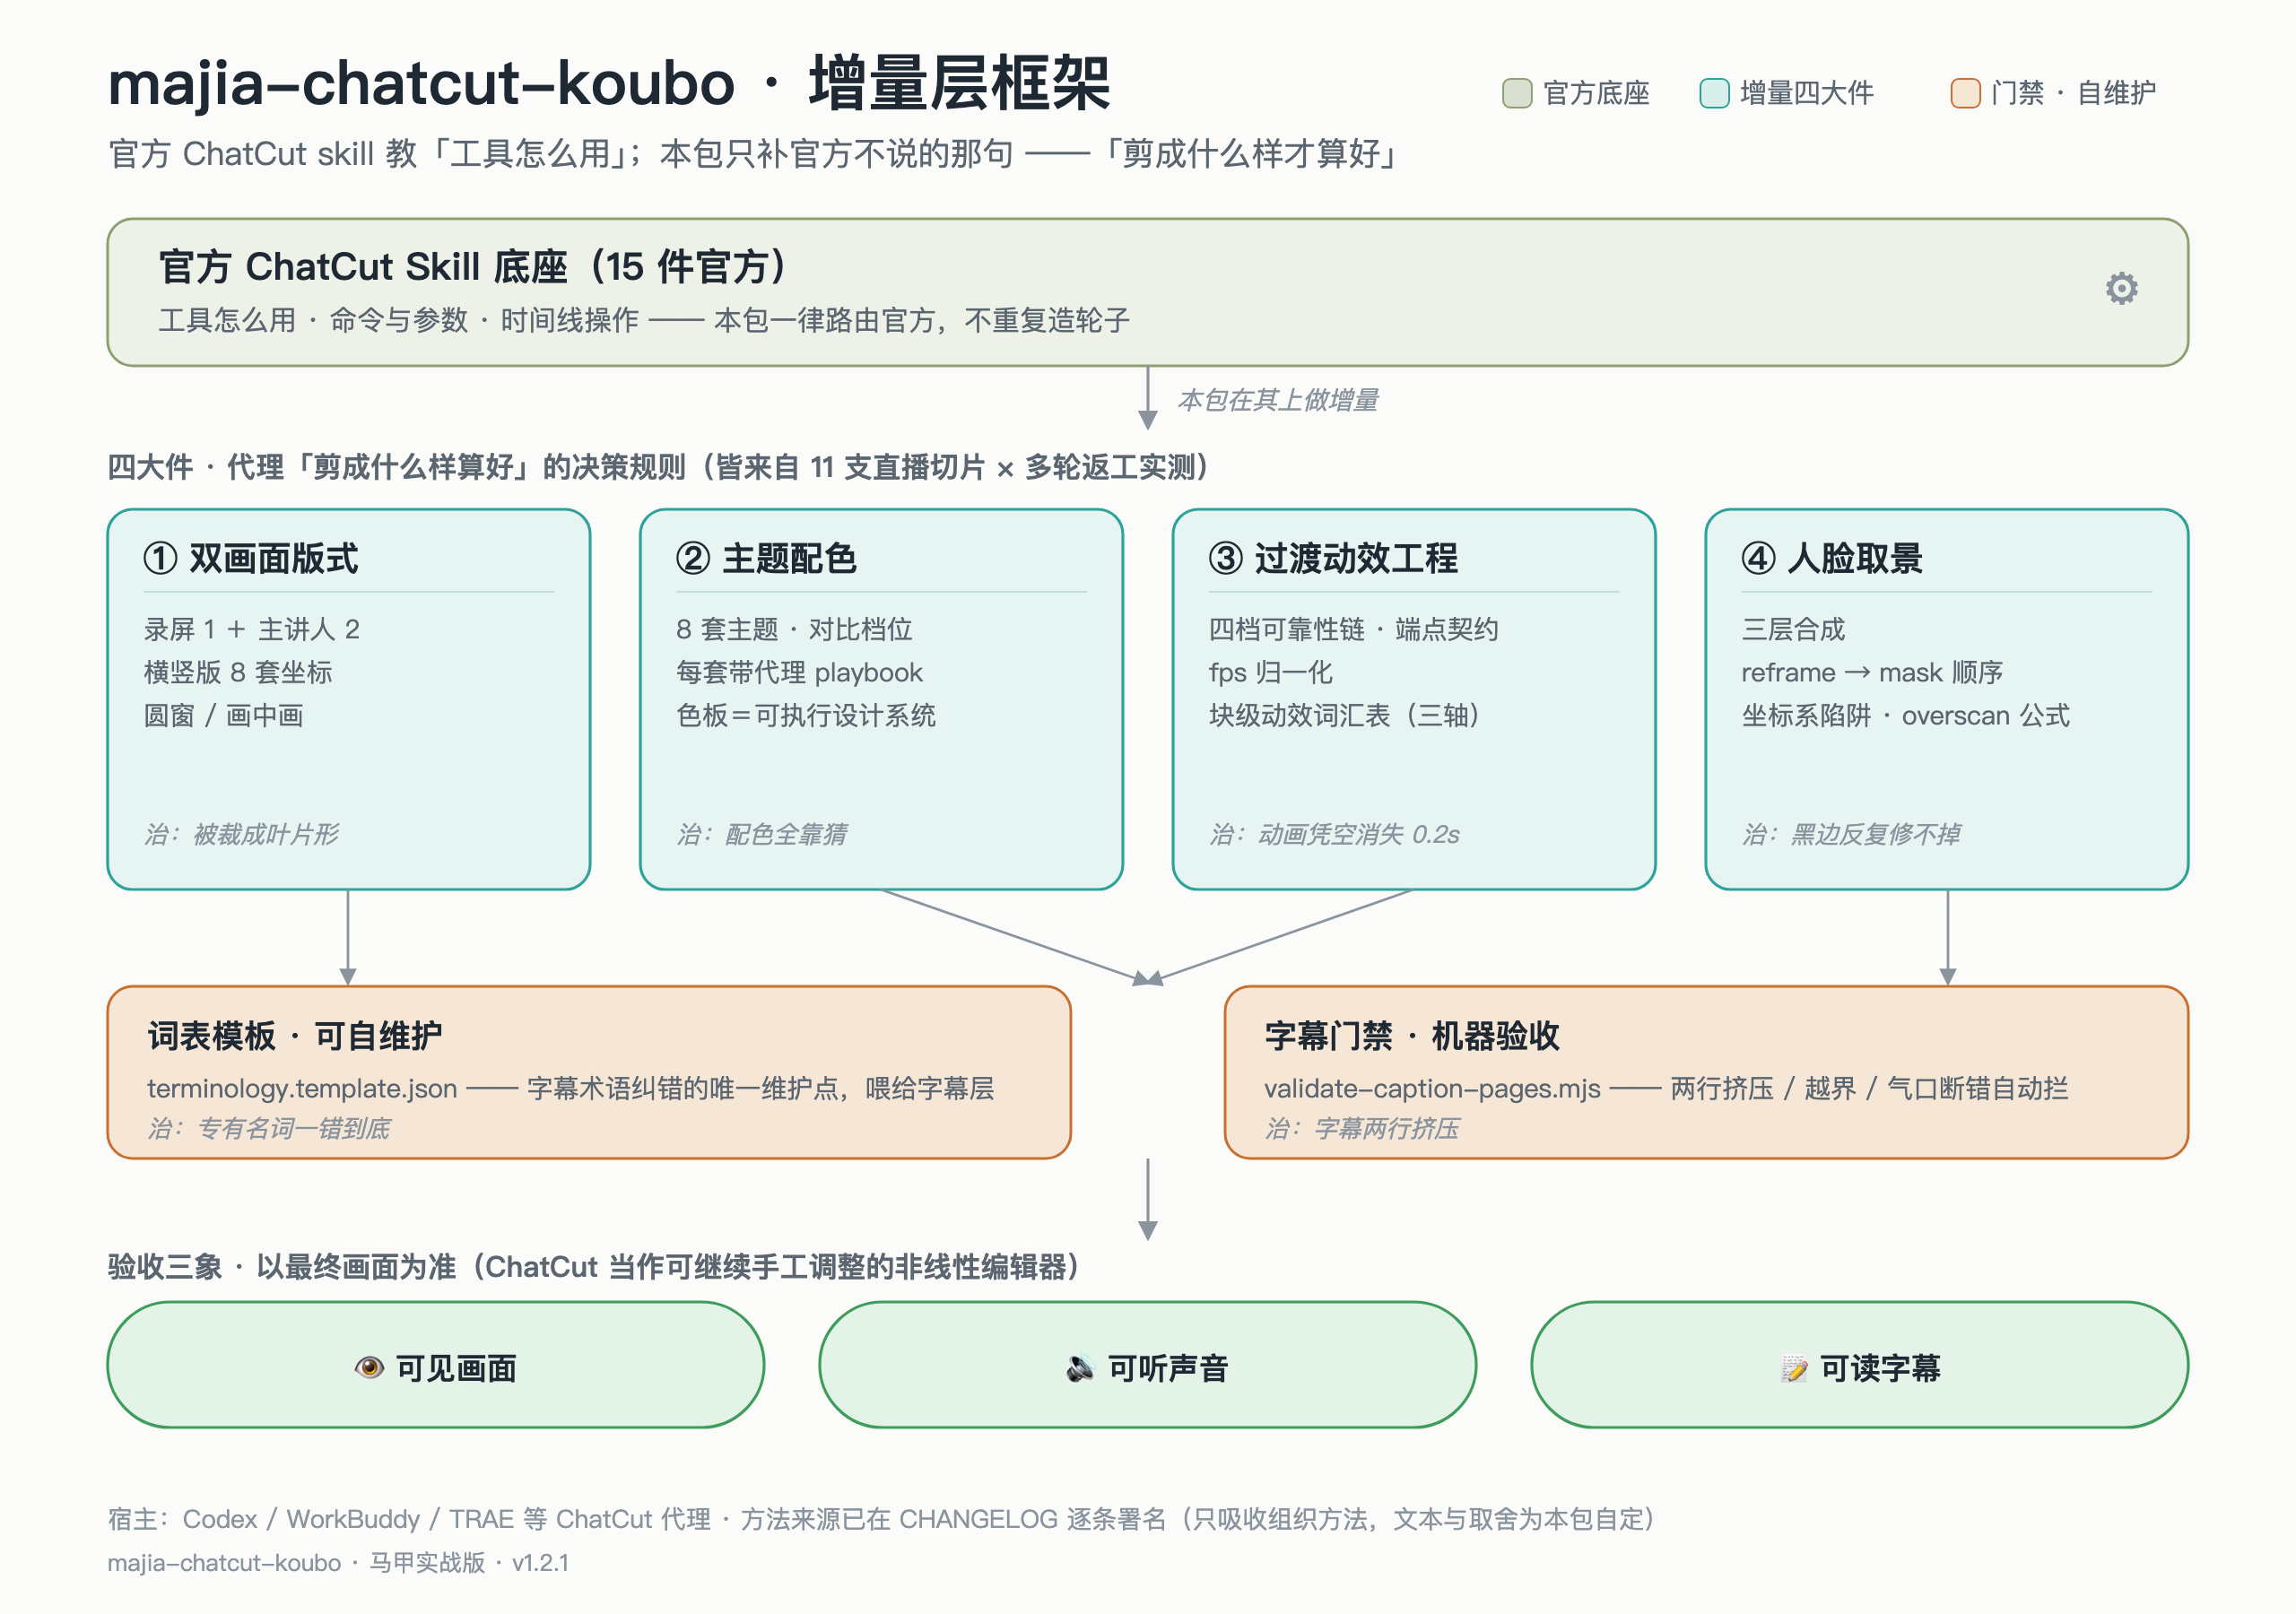
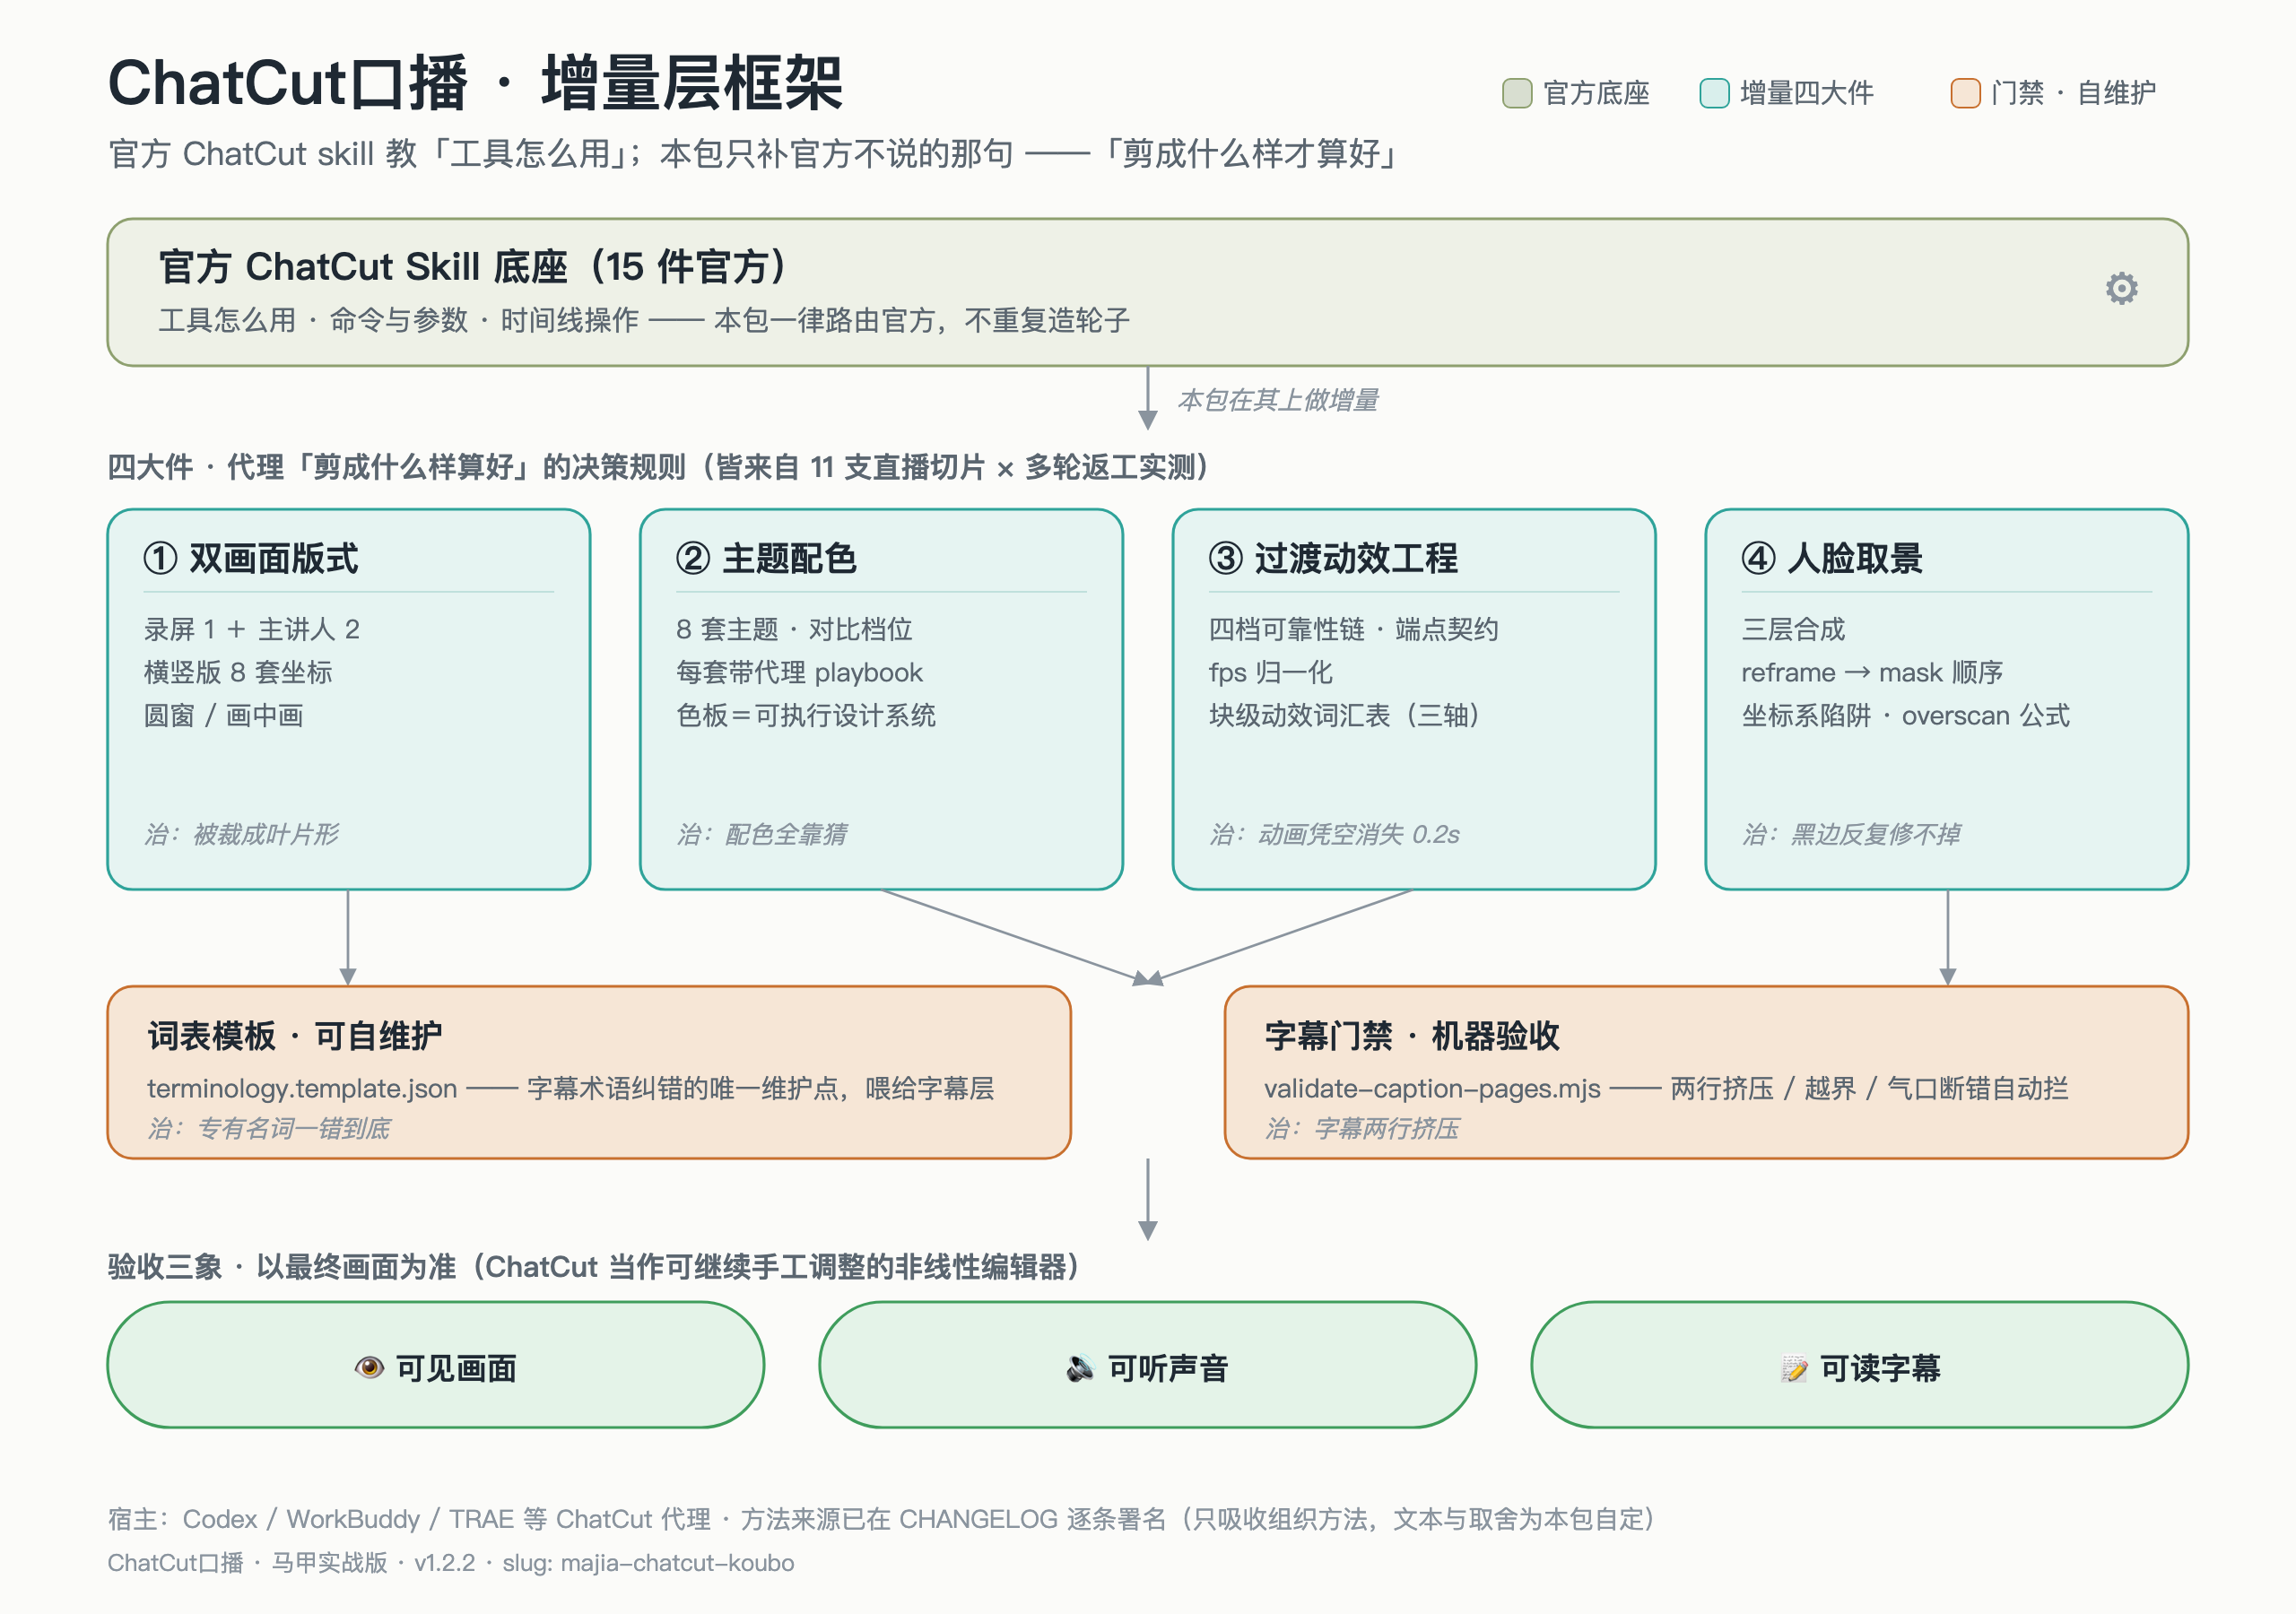
brand: 中文展示名定为「ChatCut口播 · 马甲实战版」(v1.2.2)
- SKILL H1 / README H1 / README.en 注记 / 架构图标题+footer / CHANGELOG 同步中文名
- slug majia-chatcut-koubo、frontmatter name、安装命令全部不变(仅展示名)
- bump v1.2.2,版本记录≤3,架构图 alt+footer 版本同步,PII/漂移门通过

Changed region(s): [[0.0312, 0.0311, 0.5, 0.0933], [0.0625, 0.9644, 0.3438, 0.9956]]

diff --git a/README.md b/README.md
@@ -1,13 +1,15 @@
-# majia-chatcut-koubo
+# ChatCut口播 · 马甲实战版
 
-![Skill Version](https://img.shields.io/badge/skill-v1.2.1-blue)
+![Skill Version](https://img.shields.io/badge/skill-v1.2.2-blue)
 [![skills.sh](https://skills.sh/b/maojiebc/majia-chatcut-koubo)](https://skills.sh/maojiebc/majia-chatcut-koubo)
+
+> 安装标识（slug）仍为 `majia-chatcut-koubo`，安装命令与下方一致；「ChatCut口播 · 马甲实战版」是它的中文展示名。
 
 **ChatCut 口播剪辑通用技巧包 · 马甲实战版** —— 官方 ChatCut skill 之上的增量层:双画面版式、主题配色、过渡动效、人脸取景四大件,外加可自维护的词表模板与机器化字幕门禁。全部规则来自真实批量剪片(11 支直播切片 × 多轮返工)踩出来的实测结论,不是理论汇编。
 
-<img src="https://raw.githubusercontent.com/maojiebc/majia-chatcut-koubo/main/docs/architecture.png" alt="v1.2.1 增量层框架图:官方 ChatCut 底座 → 双画面版式 / 主题配色 / 过渡动效工程 / 人脸取景 四大件 → 词表模板 + 字幕门禁 → 可见画面 / 可听声音 / 可读字幕 验收三象" width="100%">
+<img src="https://raw.githubusercontent.com/maojiebc/majia-chatcut-koubo/main/docs/architecture.png" alt="v1.2.2 增量层框架图:官方 ChatCut 底座 → 双画面版式 / 主题配色 / 过渡动效工程 / 人脸取景 四大件 → 词表模板 + 字幕门禁 → 可见画面 / 可听声音 / 可读字幕 验收三象" width="100%">
 
-<img src="https://raw.githubusercontent.com/maojiebc/majia-chatcut-koubo/main/docs/theme-preview.png" alt="v1.2.1 · 8 套口播主题配色总览(每套含代理 playbook):深空蓝/墨绿金/暖灰橙/午夜紫/极简黑白/海盐青/大地棕/活力青柠" width="100%">
+<img src="https://raw.githubusercontent.com/maojiebc/majia-chatcut-koubo/main/docs/theme-preview.png" alt="v1.2.2 · 8 套口播主题配色总览(每套含代理 playbook):深空蓝/墨绿金/暖灰橙/午夜紫/极简黑白/海盐青/大地棕/活力青柠" width="100%">
 
 ## 这个包解决什么
 
@@ -66,11 +68,11 @@ docs/
 
 ## 📋 版本记录
 
+**V1.2.2(2026-07-23)** — 中文品牌名:展示名定为「ChatCut口播 · 马甲实战版」,同步 SKILL/README/架构图/GitHub About/ClawHub;安装标识 `majia-chatcut-koubo`、frontmatter 与安装命令一律不变。
+
 **V1.2.1(2026-07-23)** — 框架图 + 装修:新增 `docs/architecture.svg` 增量层全景框架图(官方底座 → 双画面/主题/动效/取景 四大件 → 词表模板 + 字幕门禁 → 可见画面/可听声音/可读字幕 验收三象),README 首图改为框架图、主题总览下移,版本记录收敛。纯文档增强,规则本体不变。
 
 **V1.2.0(2026-07-22)** — 块级动效词汇表:信息块动效收敛为三轴受限枚举(进场/出场/循环强调,弹入默认禁、闪烁禁、打字机仅文字块),8 份主题 playbook 各配「动效档」准许/禁用集,块×动效推荐表落地「一致性>花样」。
-
-**V1.1.0(2026-07-22)** — 主题 playbook 化:8 套主题各配一份代理 playbook(token 语义档位/版式搭配/信息块偏好/字幕底板硬规则/调用 crib),主题包从「色板+底图」升级为「代理可执行的设计系统」;新增 `graphics-blocks.md` 十类信息块选用表(证据信号驱动,CTA 默认不加为红线)。
 
 完整变更历史见 [CHANGELOG.md](CHANGELOG.md)。
 

diff --git a/README.en.md b/README.en.md
@@ -1,12 +1,14 @@
 # majia-chatcut-koubo
 
-![Skill Version](https://img.shields.io/badge/skill-v1.2.1-blue)
+![Skill Version](https://img.shields.io/badge/skill-v1.2.2-blue)
+
+> Chinese display name: **ChatCut口播 · 马甲实战版**. Install slug stays `majia-chatcut-koubo`.
 
 **A field-tested technique pack for agent-driven talking-head editing in ChatCut · Majia Field Edition** — an increment layer on top of the official ChatCut skills. The official skills teach agents *how to use the tools*; this pack teaches them *what a good cut looks like*, with the math behind every hard-won lesson.
 
-<img src="https://raw.githubusercontent.com/maojiebc/majia-chatcut-koubo/main/docs/architecture.png" alt="v1.2.1 increment-layer architecture: official ChatCut base → four pieces (dual-frame layout / theme palette / transition engineering / face reframe) → terminology template + caption gate → visible frame / audible sound / readable captions acceptance triad" width="100%">
+<img src="https://raw.githubusercontent.com/maojiebc/majia-chatcut-koubo/main/docs/architecture.png" alt="v1.2.2 increment-layer architecture: official ChatCut base → four pieces (dual-frame layout / theme palette / transition engineering / face reframe) → terminology template + caption gate → visible frame / audible sound / readable captions acceptance triad" width="100%">
 
-<img src="https://raw.githubusercontent.com/maojiebc/majia-chatcut-koubo/main/docs/theme-preview.png" alt="v1.2.1 · 8 talking-head color themes overview (each with an agent playbook)" width="100%">
+<img src="https://raw.githubusercontent.com/maojiebc/majia-chatcut-koubo/main/docs/theme-preview.png" alt="v1.2.2 · 8 talking-head color themes overview (each with an agent playbook)" width="100%">
 
 ## What's inside
 
@@ -32,11 +34,11 @@ The numbers in this pack (22 chars/line, 330px circle window, `magnification≈0
 
 ## 📋 Version History
 
+**V1.2.2 (2026-07-23)** — Chinese brand name: display name set to **ChatCut口播 · 马甲实战版** across SKILL / README / architecture diagram / GitHub About / ClawHub. The install slug `majia-chatcut-koubo`, frontmatter, and install commands are unchanged.
+
 **V1.2.1 (2026-07-23)** — Architecture diagram + polish: new `docs/architecture.svg` giving a full-picture view of the increment layer (official base → four pieces → terminology template + caption gate → visible/audible/readable acceptance triad); README lead image is now the framework diagram, theme overview moved below; version history trimmed. Docs-only enhancement — no rule changes.
 
 **V1.2.0 (2026-07-22)** — Block-level motion vocabulary: graphics-block animations converge into a constrained three-axis enum (enter/exit/loop emphasis — bounce off by default, flicker banned, typewriter for text blocks only), each theme playbook gains a "motion tier" allow/deny set, plus a block×motion recommendation table ("consistency beats variety").
-
-**V1.1.0 (2026-07-22)** — Theme playbooks: each of the 8 themes now ships an agent-facing playbook (measured token tiers, layout pairing, graphics-block preferences, caption-plate hard rules, and an embeddable style crib for MG generation), upgrading the theme pack from "palette + backgrounds" to an executable design system. New `graphics-blocks.md`: a ten-block taxonomy driven by evidence signals (CTA off by default — that's a red line, not a preference).
 
 Full history: [CHANGELOG.md](CHANGELOG.md).
 

diff --git a/CHANGELOG.md b/CHANGELOG.md
@@ -1,5 +1,11 @@
 # CHANGELOG · majia-chatcut-koubo
 
+## V1.2.2（2026-07-23）— 中文品牌名
+
+- 展示名定为「**ChatCut口播 · 马甲实战版**」，同步五处品牌面：SKILL.md H1、README.md H1、README.en.md 副标题注记、GitHub About 简介、ClawHub `--name`；架构图标题与 footer 一并更新。
+- **安装标识（slug）`majia-chatcut-koubo`、SKILL frontmatter `name:`、`gh skill install` / `npx skills add` / `clawhub install` 命令一律不变** —— 仅人读展示名变更，机器标识与安装路径零改动。
+- 规则本体（SKILL/references/templates/scripts）零改动。
+
 ## V1.2.1（2026-07-23）— 框架图 + README 装修
 
 - 新增 `docs/architecture.svg`：增量层全景框架图 —— 官方 ChatCut 底座 → 双画面版式 / 主题配色 / 过渡动效工程 / 人脸取景 四大件（各标所治痛点）→ 词表模板 + 字幕门禁 → 可见画面 / 可听声音 / 可读字幕 验收三象；配套 `docs/architecture.png`（raw.githubusercontent 渲染用，`.svg` 在包页不内联）。

diff --git a/SKILL.md b/SKILL.md
@@ -2,10 +2,10 @@
 name: majia-chatcut-koubo
 description: ChatCut 口播/录屏视频代理剪辑的通用技巧包——官方 ChatCut skill 之上的增量层。覆盖：双画面版式（横竖版 8 套坐标）、8 套主题配色与对比度档位、过渡动效工程（四档可靠性链/端点契约/fps 归一化）、人脸居中与内部取景（三层合成/reframe→mask 顺序/坐标系陷阱/overscan 公式）、中文气口字幕与可自维护词表模板、机器化字幕门禁脚本。触发：ChatCut 剪口播、直播切片、画中画/圆窗、主讲人过渡动画、竖版重构、字幕气口、术语纠错、主题配色。
 metadata:
-  version: 1.2.1
+  version: 1.2.2
 ---
 
-# majia-chatcut-koubo · 马甲实战版
+# ChatCut口播 · 马甲实战版
 
 ChatCut 口播剪辑的通用技巧包。把 ChatCut 当作最终可继续手工调整的非线性编辑器：所有剪辑交付留在项目和时间线上，以可见画面、可听声音和可读字幕为验收对象。
 